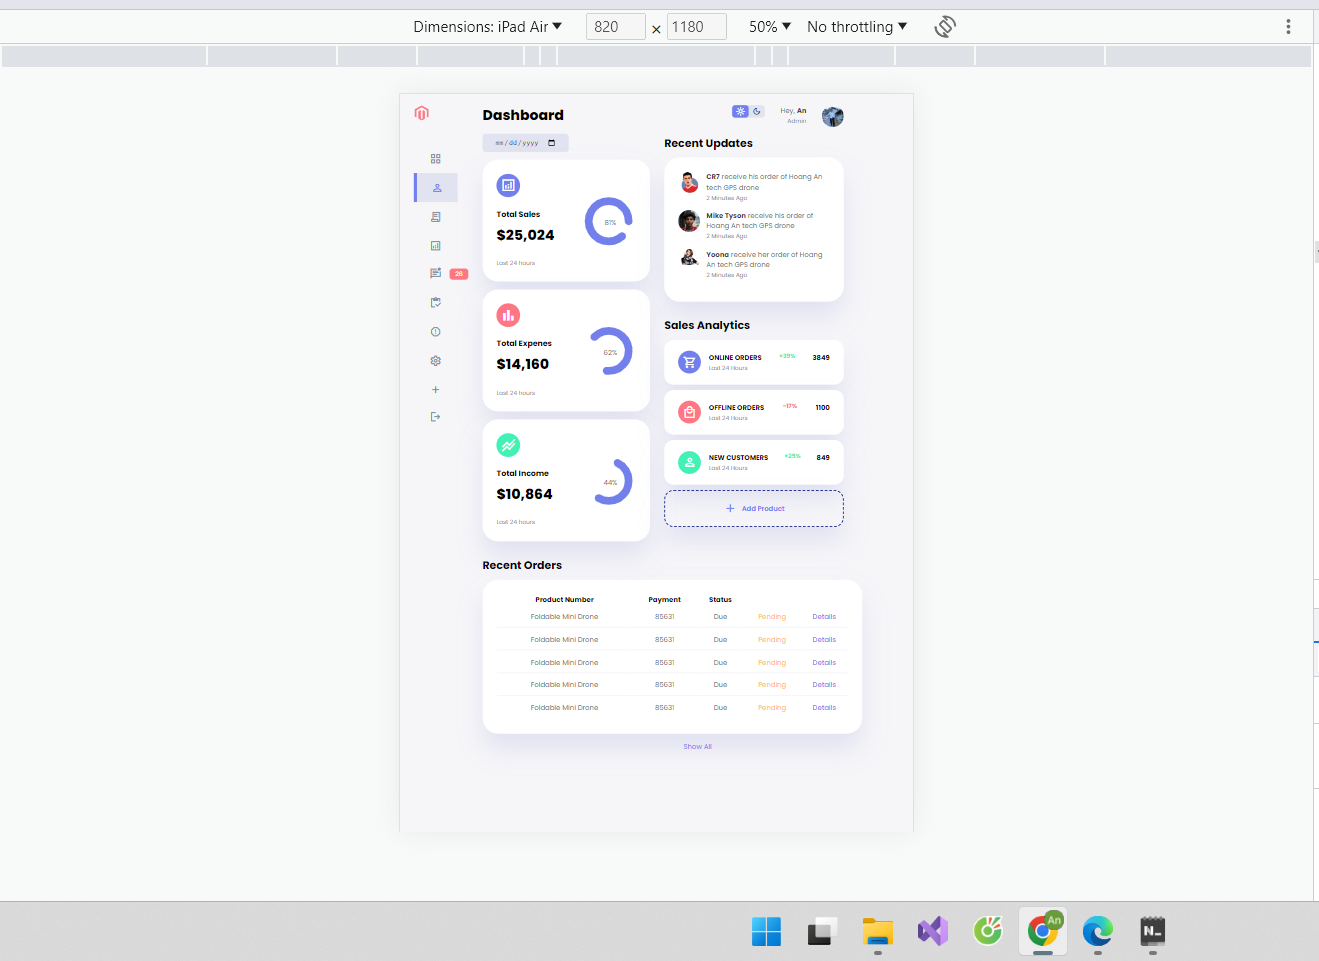
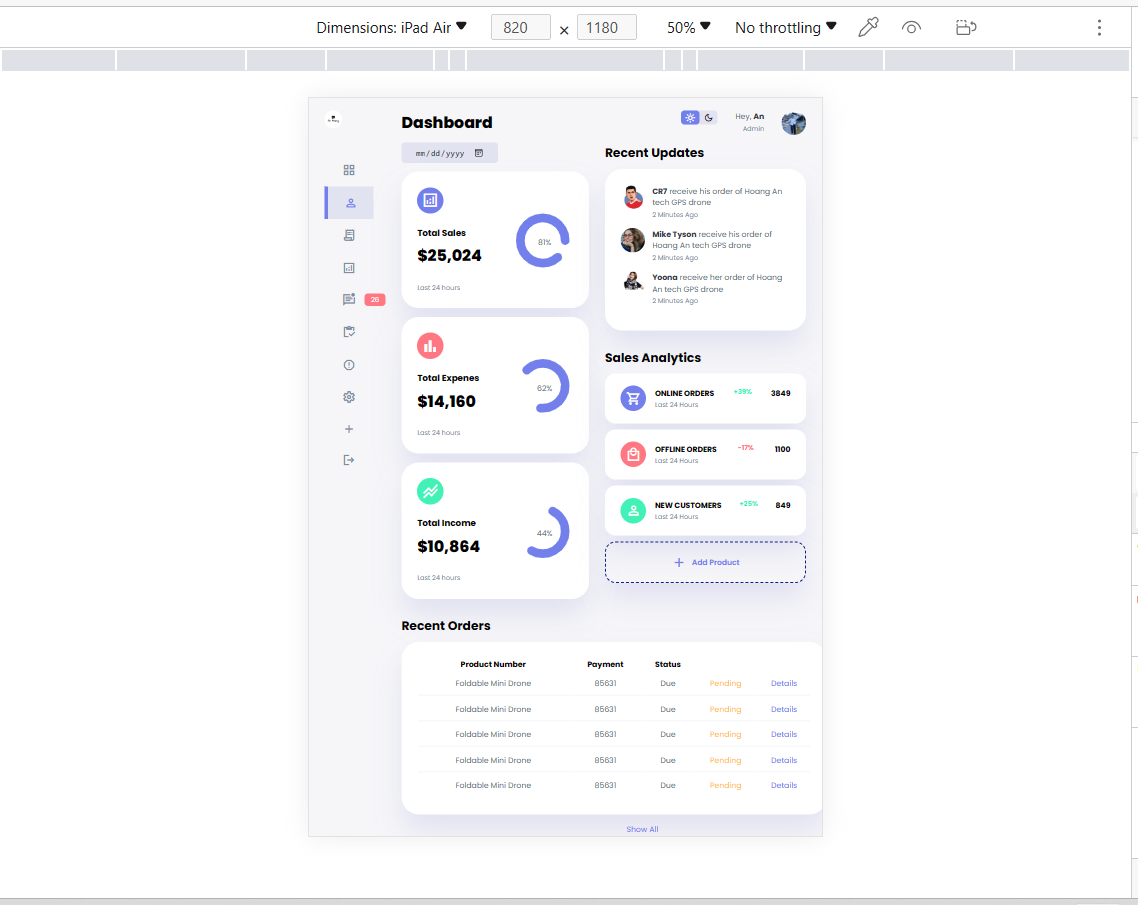
second upload

diff --git a/admin.html b/admin.html
@@ -27,7 +27,7 @@
         <aside>
             <div class="top">
                 <div class="logo">
-                    <img src="images/logo.png" alt="logo">
+                    <img src="images/an-hoang-low-resolution-logo-white-on-transparent-background.png" alt="logo">
                     <h2>HOANG <span class="danger">AN</span></h2>
                 </div>
                 <div class="close" id="close-btn">
@@ -275,7 +275,7 @@
                     </div>
                     <div class="update">
                         <div class="profile-photo">
-                            <img src="images/profile-1.jpg" alt="">
+                            <img src="images/profile-3.jpg" alt="">
                         </div>
                         <div class="message">
                             <p><b>Mike Tyson</b> receive his order of Hoang An tech
